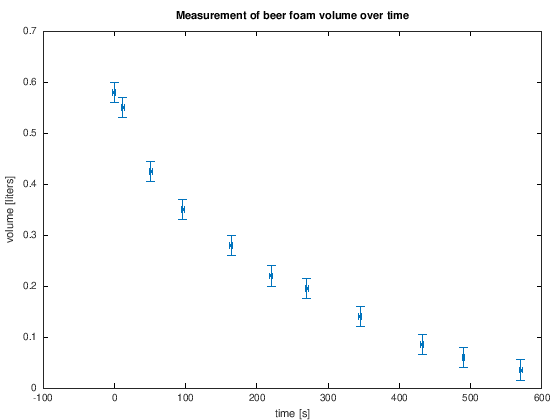
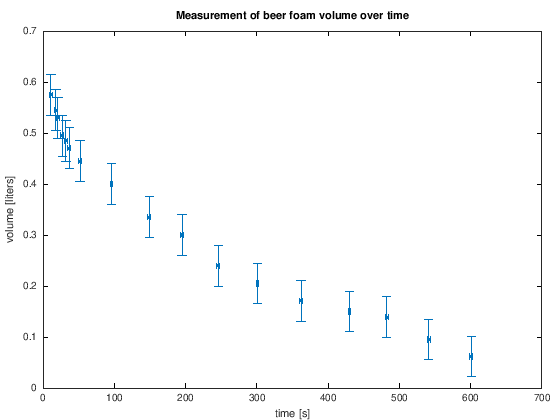
measurement data for beer foam from lecture 2019-05-21

diff --git a/_build/04_nichtlineare_gleichungen/test_jacobian.m b/_build/04_nichtlineare_gleichungen/test_jacobian.m
@@ -19,18 +19,22 @@ function test_jacobian_of_const
 % test if Jacobian of contant function is zero
     n = randi(10);
     m = randi(10);
-    f = rand()*1e3;
+    c = rand(m,1)*1e3;
+    f = @(x) c;
     x = rand(n,1)*1e3;
-    J = jacobian(@(x) f*ones(m,1),x);
-    assertElementsAlmostEqual(J, zeros(m,n));
+    assertElementsAlmostEqual(jacobian(f,x), zeros(m,n));
 end
 
-function test_x
-% test if jacobian(x) = eye
-    n = randi(10);
-    f = @(x) x;
+function test_linear
+% test if jacobian(Ax+b) = A
+    n = randi(50);
+    A = rand(n,n)*2e2 - 1e2;
+    b = rand(n,1)*2e2 - 1e2;
+    
+    f = @(x) A*x+b;
     x = rand(n,1)*1e3;
-    assertElementsAlmostEqual(jacobian(f,x), eye(n));
+    
+    assertElementsAlmostEqual(jacobian(f,x), A,'relative', 1e-3);
 end
 
 function test_exp
@@ -53,14 +57,14 @@ end
 function test_sin
 % test if jacobian(sin(x)) = cos(x);
     x = rand()*2*pi;
-    assertElementsAlmostEqual(jacobian(@sin,x),cos(x),'relative',1e-5);
+    assertElementsAlmostEqual(jacobian(@sin,x),cos(x),'relative',1e-3);
 end
 
 
 function test_cos
 % test if jacobian(cos(x)) = -sin(x);
     x = rand()*2*pi;
-    assertElementsAlmostEqual(jacobian(@cos,x),-sin(x),'relative',1e-5);
+    assertElementsAlmostEqual(jacobian(@cos,x),-sin(x),'relative',1e-3);
 end
 
 function test_monomial

diff --git a/_build/04_nichtlineare_gleichungen/exercises_00_bierschaum.md b/_build/04_nichtlineare_gleichungen/exercises_00_bierschaum.md
@@ -24,37 +24,48 @@ Wenn wir ein Weizenbier länger stehen lassen, baut sich die schöne Schaumkrone
 
 Messen wir es einfach nach! Wir benutzen ein Messbecher, Wasser und einen wasserfesten Marker um ein Weizenglas mit Eichstrichen zu versehen *(Hier hätten wir natürlich auch direkt den Messbecher benutzen können, wir entscheiden uns aber etwas Messgenauigkeit zu Gunsten der Realitätsnähe zu opfern)*. 
 
+![](../images/20190521_bierschaum_01.jpg)
+
 Wir schütten ein Bier in das geeichte Glas ein, so dass sehr viel Schaum entsteht und notieren uns - so gut es eben geht - den unteren und oberen Stand des Schaumes zu unterschiedlichen Zeitpunkten. Die Differenz ist dann das Bierschaumvolumen zum jeweiligen Zeitpunkt.
 
-| $t$ [s] | Oberer Messwert [$l$] | Unterer Messwert [$l$] | $V$ [$l$] |
-| -- | -- | -- | -- |
-| 0  | 0.020 | 0.600 | 0.580 |
-| 12 | 0.050 | 0.600 | 0.550 |
-| 51 | 0.125 | 0.550 | 0.425  |
-| 96 | 0.150 | 0.500 | 0.350  |
-| 164 | 0.170 | 0.450 | 0.280  |
-| 220 | 0.180 | 0.400 | 0.220  |
-| 270 | 0.180 | 0.375 | 0.195  |
-| 345 | 0.185 | 0.325 | 0.140  |
-| 432 | 0.190 | 0.275 | 0.085  |
-| 490 | 0.190 | 0.250 | 0.060  |
-| 570 | 0.190 | 0.225 | 0.035  |
+![](../images/20190521_bierschaum_02.jpg)
+![](../images/20190521_bierschaum_03.jpg)
 
-Die Genauigkeit der Messung sei mal dahin gestellt, es reicht zumindest aus um einen Trend zu erkennen: Der Schaum baut sich anfänglich schneller ab als später, wenn nicht mehr viel Schaum da ist. Wenn wir von einem Messfehler von ca. $0.02$ Litern und ca. $2$ Sekunden ausgehen, ergibt sich folgendes Bild
+| $t$ [s] | Oberer Messwert [$l$] | Unterer Messwert [$l$] | $V$ [$l$] |
+| --  | --    | --    | --    |
+|  11 | 0.600 | 0.025 | 0.575 |
+|  18 | 0.590 | 0.045 | 0.545 |
+|  21 | 0.580 | 0.050 | 0.530 |
+|  27 | 0.570 | 0.075 | 0.495 |
+|  32 | 0.570 | 0.085 | 0.485 |
+|  37 | 0.570 | 0.100 | 0.470 |
+|  52 | 0.570 | 0.125 | 0.445 |
+|  96 | 0.555 | 0.150 | 0.400 |
+| 149 | 0.510 | 0.175 | 0.335 |
+| 195 | 0.480 | 0.180 | 0.300 |
+| 246 | 0.430 | 0.190 | 0.240 |
+| 301 | 0.400 | 0.195 | 0.205 |
+| 362 | 0.370 | 0.199 | 0.171 |
+| 430 | 0.350 | 0.200 | 0.150 |
+| 482 | 0.340 | 0.201 | 0.139 |
+| 541 | 0.300 | 0.205 | 0.095 |
+| 601 | 0.270 | 0.208 | 0.062 |
+
+Die Genauigkeit der Messung sei mal dahin gestellt, es reicht zumindest aus um einen Trend zu erkennen: Der Schaum baut sich anfänglich schneller ab als später, wenn nicht mehr viel Schaum da ist. Wenn wir von einem Messfehler von ca. $2 \cdot 0.02 = 0.04$ Litern und ca. $1$ Sekunden ausgehen, ergibt sich folgendes Bild
 
 <div markdown="1" class="cell code_cell">
 <div class="input_area hidecode" markdown="1">
 ```matlab
-% measurement results
+% measurement results from lecture 2019-05-21
 
-t = [0 12 51 96 164 220 270 345 432 490 570];
-U = [0.02 0.05 0.125 0.15 0.17 0.18 0.18 0.185 0.19 0.19 0.19];
-O = [0.6 0.6 0.55 0.5 0.45 0.4 0.375 0.325 0.275 0.25 0.225];
-V = O-U;
+t = [11 18 21 27 32 37 52 96 149 195 246 301 362 430 482 541 601];
+U = [0.025 0.045 0.05 0.075 0.085 0.1 0.125 0.15 0.175 0.18 0.19 0.195 0.199 0.2 0.201 0.205 0.208];
+O = [0.6 0.59 0.58 0.57 0.57 0.57 0.57 0.55 0.51 0.48 0.43 0.40 0.37 0.35 0.34 0.3 0.27];
+V = O - U;
 
 % approximate measurement errors:
 t_err = 2;
-V_err = 0.02;
+V_err = 0.04;
 
 errorbar(t, V, t_err, V_err, '~>.')
 title('Measurement of beer foam volume over time')
@@ -91,7 +102,7 @@ stellen wir fest, dass unser Ansatz eine valide Lösung der Differentialgleichun
 
 $$ V(t) = b \cdot e^{a \cdot t}. $$
 
-Ok, nun haben wir einerseits Messwerte und andererseits ein mathematisches Modell mit unbekannten Parametern $a$ und $b$. $b$ muss offensichtlich der y-Achsenabschnitt sein, da $V(0)=b \cdot e^0 = b$, den kennen wir aus den Messwerten. Aber was, wenn ausgerechnet die erste Messung mit Messfehlern behaftet ist? Abgesehen, davon haben wir auch dann noch Schwierigkeiten händisch die Zerfallsrate $a$ zu raten. Für $a=-0.001 \frac{1}{\text{s}}$ und $b=0.58$ $l$ ergibt sich folgender Verlauf.
+Ok, nun haben wir einerseits Messwerte und andererseits ein mathematisches Modell mit unbekannten Parametern $a$ und $b$. $b$ muss offensichtlich der y-Achsenabschnitt sein, da $V(0)=b \cdot e^0 = b$, den kennen wir aus den Messwerten. Aber was, wenn ausgerechnet die erste Messung mit Messfehlern behaftet ist? Abgesehen, davon haben wir auch dann noch Schwierigkeiten händisch die Zerfallsrate $a$ zu raten. Für $a=-0.001 \frac{1}{\text{s}}$ und $b=0.575$ $l$ ergibt sich folgender Verlauf.
 
 <div markdown="1" class="cell code_cell">
 <div class="input_area hidecode" markdown="1">
